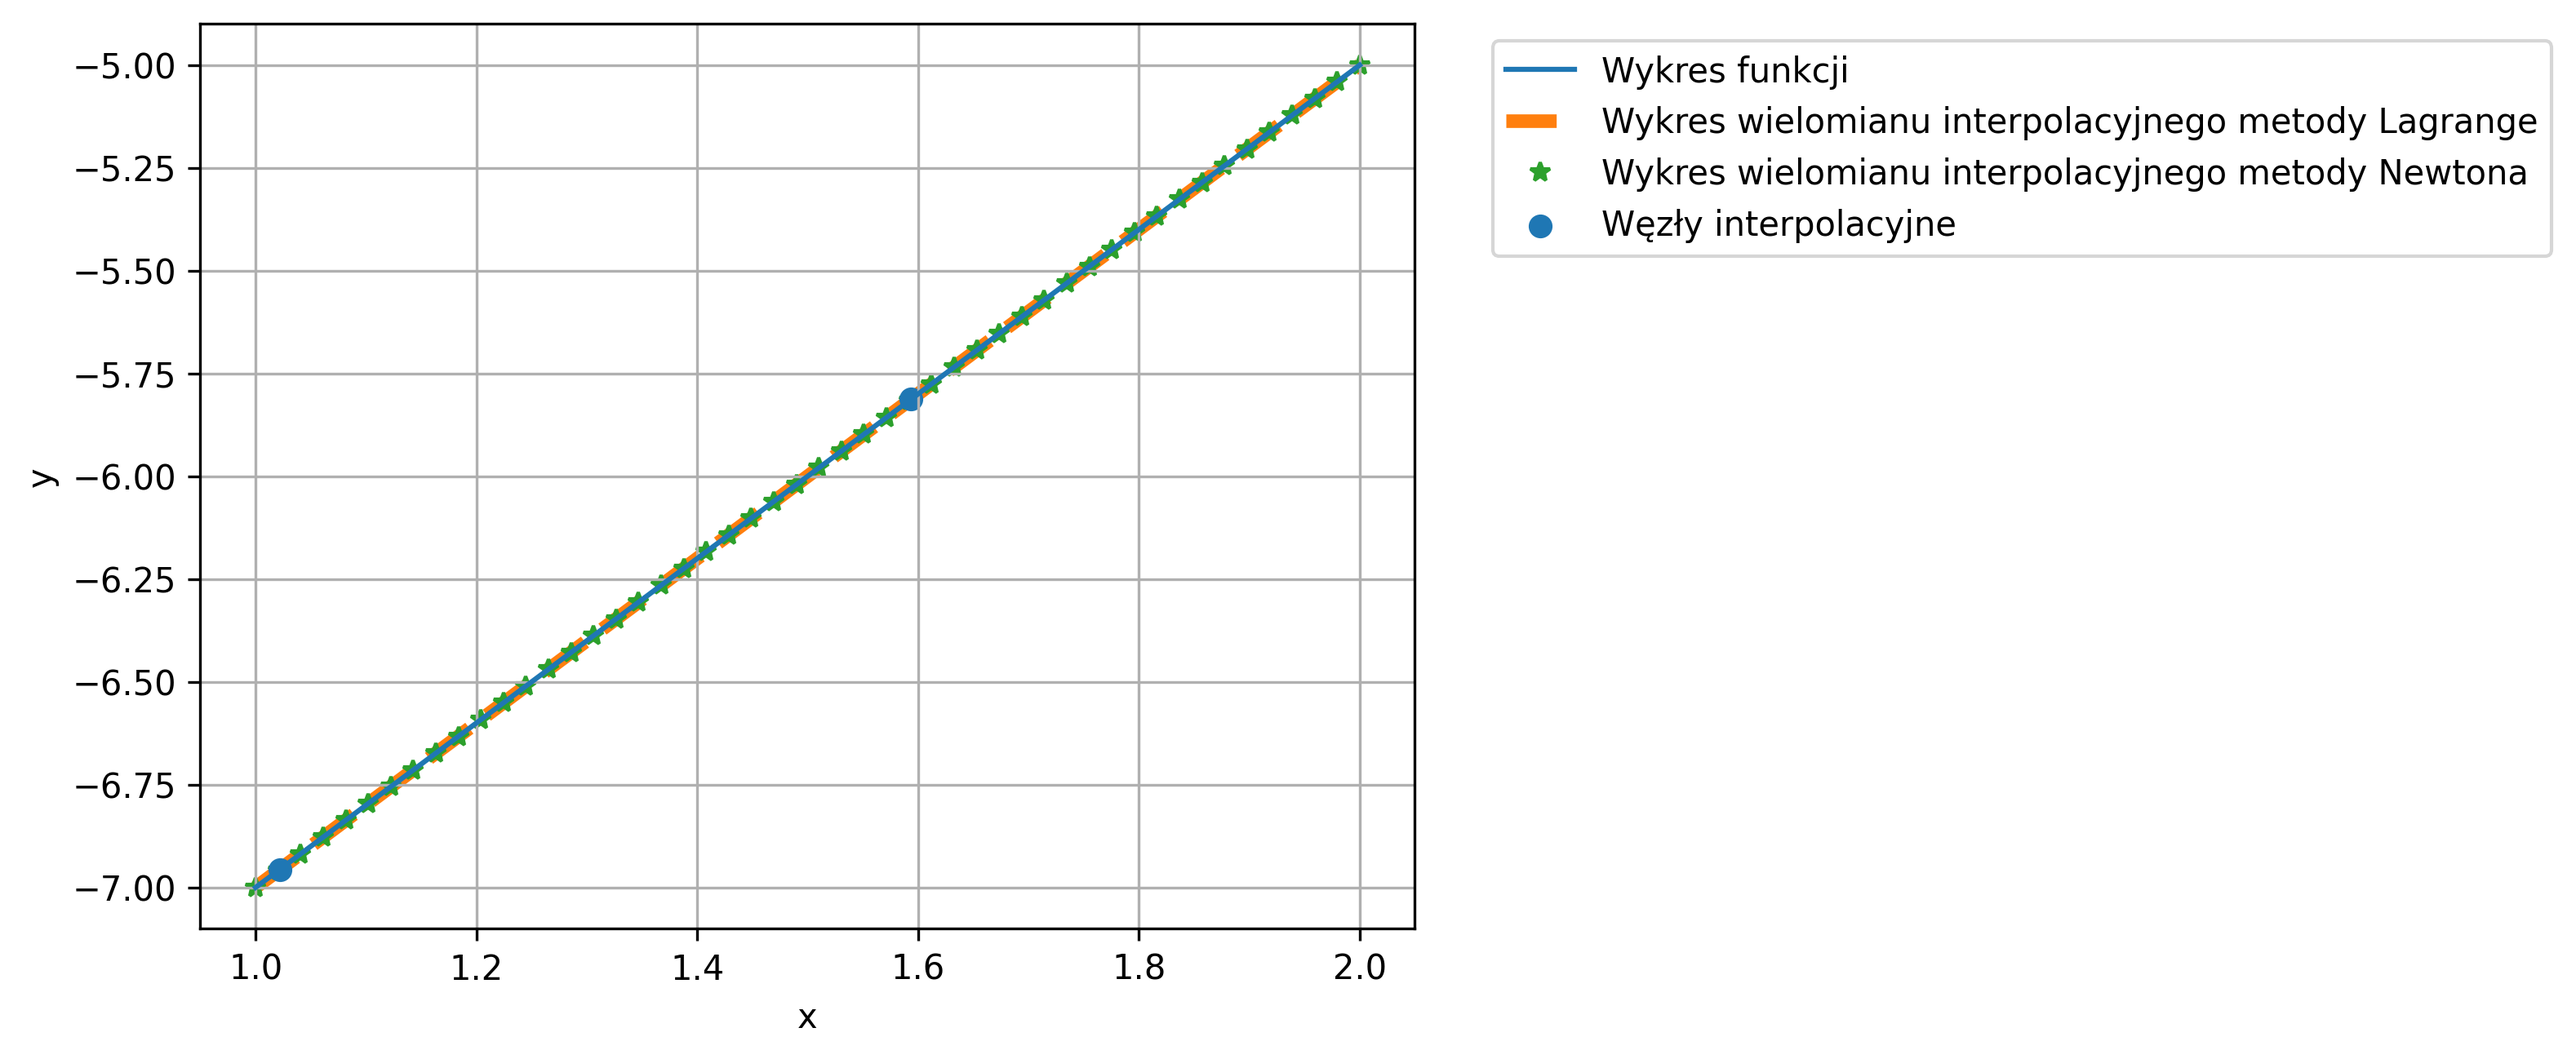
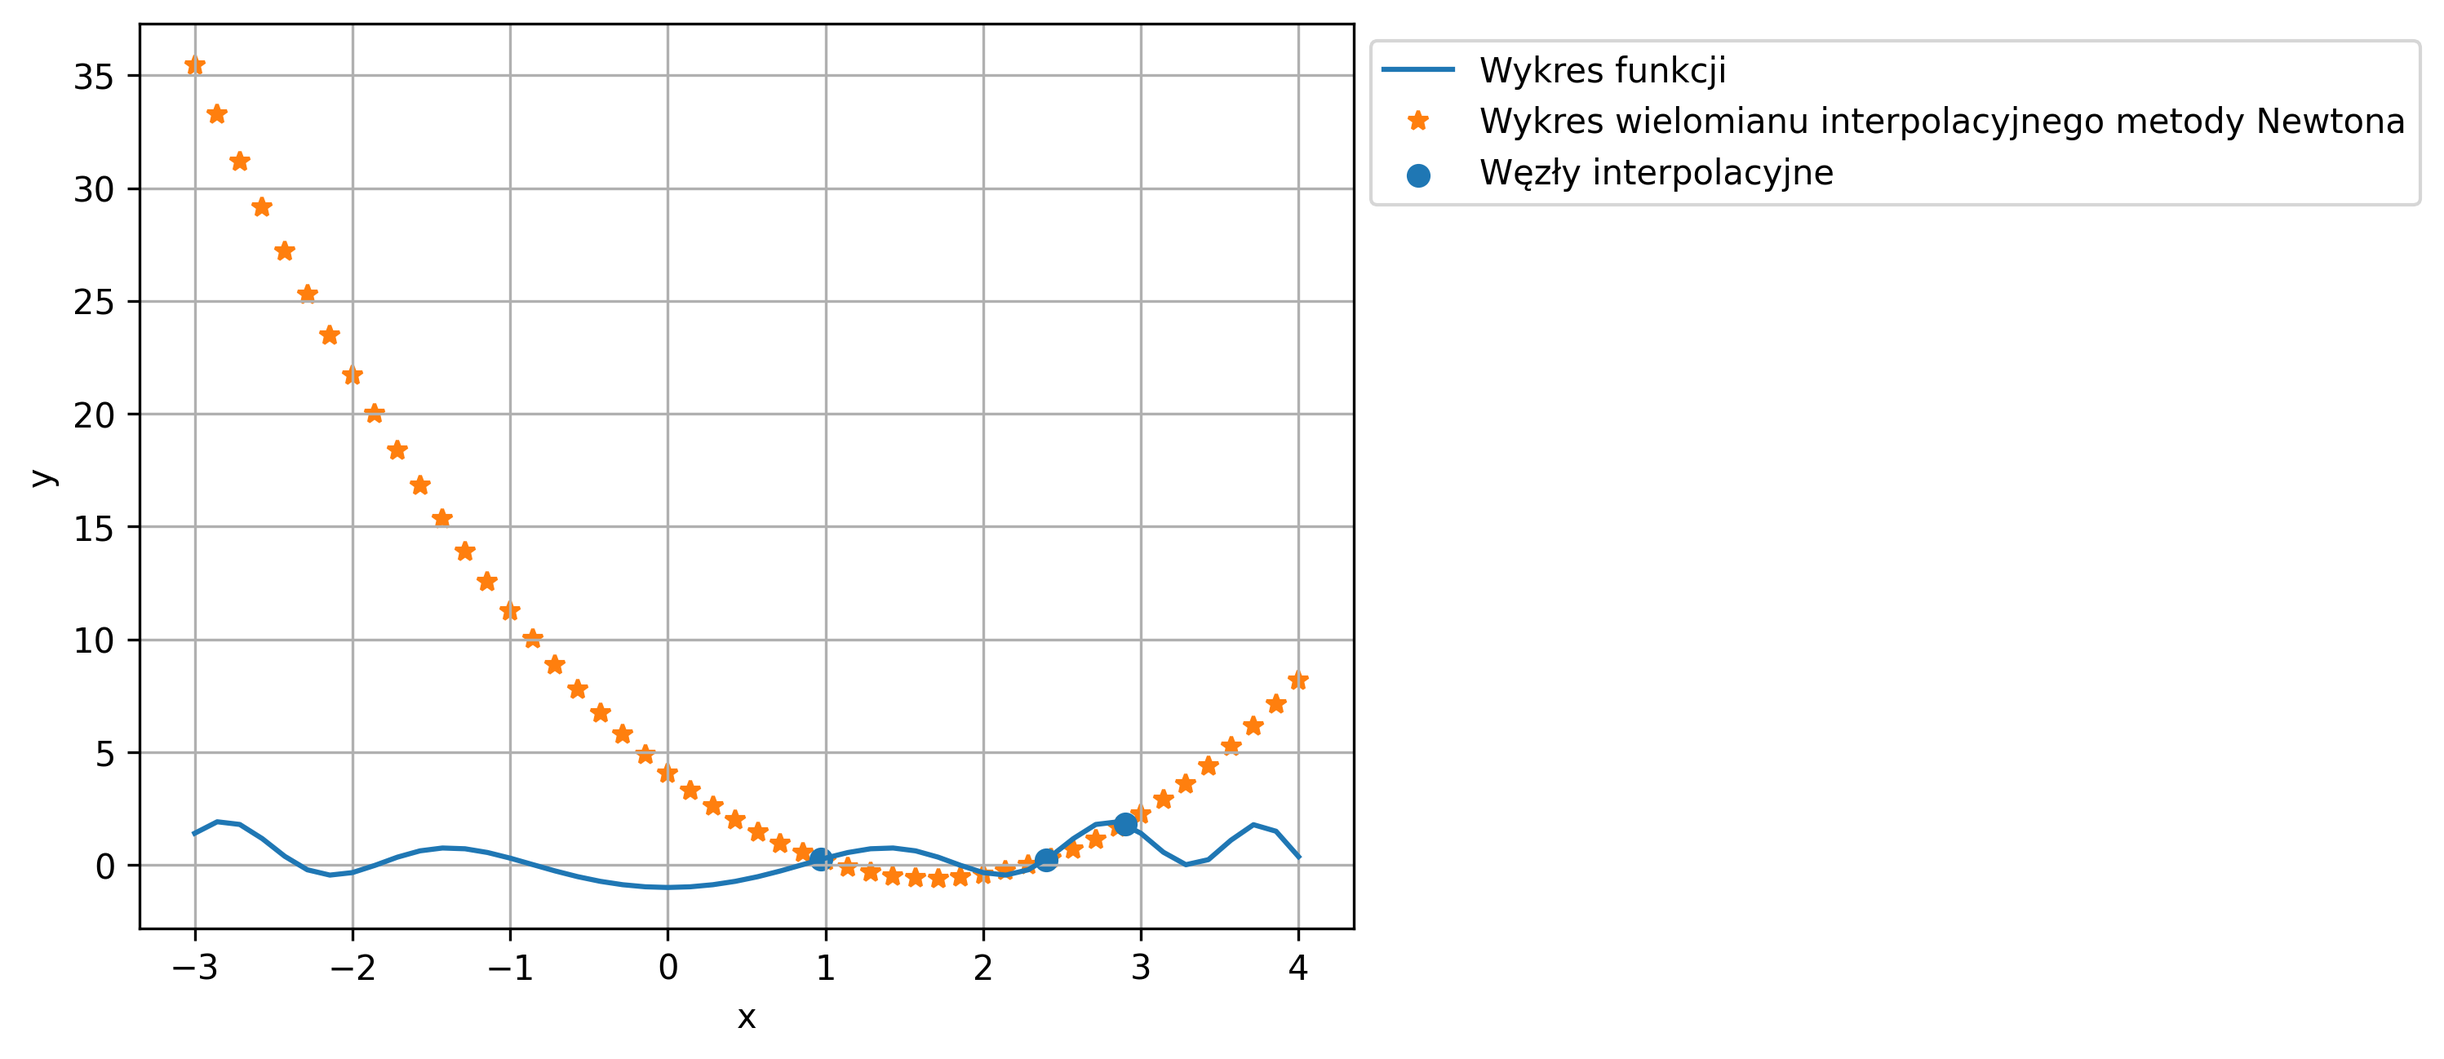
zad3 1.0
Wersja odświeżona, odnowiona, działająca release 1.0

diff --git a/Zad3/in_output.py b/Zad3/in_output.py
@@ -1,13 +1,12 @@
 from matplotlib import pyplot as plt
 import numpy as np
 import calculations
-import sys
 
 
 def get_fun():
     in_number = ''
     while in_number not in list(map(str, range(1, 5))):
-        in_number = input('Prosze wybrac wzor funkcji \n '
+        in_number = input('Prosze wybrac wzor funkcji \n'
                           '1. 2 * x - 9 \n'
                           '2. 3 * x ** 3 - 5 \n'
                           '3. np.sin(x ** 2) - np.cos(x)  \n'
@@ -17,34 +16,15 @@ def get_fun():
 
 
 def get_range():
-    print('Prosze podac poczatek przedzialu')
+    print('Poczatek przedzialu:')
     a = input()
-    print('Prosze podac koniec przedzialu')
+    print('Koniec przedzialu')
     b = input()
     return float(a), float(b)
 
 
 def get_nodes_number():
-    return int(input('Prosze podac liczbe wezlow \n'))
-
-
-def get_unknowns(unknowns_number, formula_range):
-    unknowns = []
-    for i in range(unknowns_number):
-        users_in = input('Prosze podac wartosc wspolrzednej x punktu do obliczenia wartosci'
-                         ' jego wspolrzednej y za pomoca obu metod interpolacji ')
-        while not (users_in.isdigit()) and not (formula_range[1] >= float(users_in) >= formula_range[0]):
-            print('Prosze podac prawidlowa wartosc')
-            users_in = input()
-        unknowns.append(float(users_in))
-    return np.array(unknowns)
-
-
-def get_unknowns_number():
-    number = ''
-    while not number.isdigit():
-        number = input('Prosze podac liczbe poszukiwanych niewiadomych wartosci wielomianu dla danych x \n')
-    return int(number)
+    return int(input('Liczba wezlow: \n'))
 
 
 def menu():
@@ -57,7 +37,7 @@ def menu():
     else:
         nodes = get_nodes_file(formula_range)
         if not nodes:
-            print('Dane w pliku sa nieprawidlowe, zostana wylosowane')
+            print('Nieprawidlowe dane w pliku. Trwa losowanie')
             nodes_number = get_nodes_number()
             nodes = get_nodes_user(nodes_number, formula_range)
     checked_formula = formula_switcher(formula)
@@ -74,16 +54,11 @@ def formula_switcher(in_number):
     return switcher.get(in_number, 'invalid input')
 
 
-def unknowns_menu(formula_range):
-    unknowns_number = get_unknowns_number()
-    return get_unknowns(unknowns_number, formula_range)
-
-
 def nodes_choice():
     choice = ''
     while choice != '1' and choice != '2':
-        choice = input("Prosze wybrac: \n 1. Polozenia wezlow maja zostac wylosowane \n "
-                       "2. Poloznia wezlow maja zostac wczytane z pliku 'nodes.txt' \n")
+        choice = input("Wezly: \n 1. Losowanie polozenie wezlow \n "
+                       "2. Wczytaj polozenie wezlow z pliku nodes.txt \n")
     return choice
 
 
@@ -112,7 +87,7 @@ def get_function_graph(formula_range, formula):
     plt.plot(x, np.array(y), label='Wykres funkcji')
 
 
-def get_all_graphs(formula_range, formula, nodes, nodes_values, lagrange, newton):
+def get_all_graphs(formula_range, formula, nodes, nodes_values, newton):
     get_function_graph(formula_range, formula)
     plt.plot(newton[0], newton[1], '*', zorder=0, linewidth=4,
              label='Wykres wielomianu interpolacyjnego metody Newtona')
@@ -120,26 +95,10 @@ def get_all_graphs(formula_range, formula, nodes, nodes_values, lagrange, newton
     plt.xlabel('x')
     plt.ylabel('y')
     plt.grid()
-    plt.legend(bbox_to_anchor=(1.05, 1.0), loc='upper left')
+    plt.legend(bbox_to_anchor=(1.0, 1.0), loc='upper left')
     plt.savefig('wykres.png',
                 dpi=300,
                 format='png',
                 bbox_inches='tight')
     plt.show()
 
-
-def data_output(unknowns, nodes, formula, nodes_values):
-    print('Punkty podane przez użytkownika do obliczenoia dwoma metodami \n', unknowns)
-    newton = []
-    true_values = []
-    for x in unknowns:
-        newton.append(calculations.newton_interpolation(x, nodes, nodes_values))
-        true_values.append(calculations.get_fun_value(formula, x))
-    true_values = np.array(true_values)
-    newton = np.array(newton)
-    newton_errors = calculations.get_residuals(true_values, newton)
-    newton_sq_error = calculations.get_mse(newton_errors)
-    print('Prawidlowe wartosci dla danych niewiadomych \n', true_values)
-    print('Wyniki metody Newtona \n', newton)
-    print('Bledy metody Newtona \n', newton_errors)
-    print('Sredni blad kwadratowy metody Newtona \n', newton_sq_error)

diff --git a/Zad3/calculations.py b/Zad3/calculations.py
@@ -40,20 +40,6 @@ def get_nodes_values(nodes, function):
     return np.array(nodes_values)
 
 
-def lagrange_interpolation(x, nodes, nodes_values):  # x - położenie węzła, którego wartość chcemy obliczyć
-
-    y = 0
-    for i in range(len(nodes)):
-
-        value = 1
-        for j in range(len(nodes)):
-
-            if i != j:
-                value = value * ((x - nodes[j]) / (nodes[i] - nodes[j]))
-        y += value * nodes_values[i]
-    return y
-
-
 def divided_diff(nodes, nodes_values):  # ilorazy różnicowe
     coef = np.zeros([len(nodes_values), len(nodes_values)])
     coef[:, 0] = np.array(nodes_values)
@@ -72,7 +58,7 @@ def newton_interpolation(x, nodes, nodes_values):
     return p
 
 
-def get_all_results(formula_range, nodes_values, nodes, method):  # method- lagrange_interpolation lub newton_interpolation
+def get_all_results(formula_range, nodes_values, nodes, method): 
     x = np.linspace(formula_range[0], formula_range[1])
     y = []
     for elem in x:

diff --git a/Zad3/main.py b/Zad3/main.py
@@ -1,12 +1,11 @@
 import in_output
 import calculations
-data = in_output.menu()
-nodes = data[2]
+
+
+*data, nodes = in_output.menu()
+
 nodes_values = calculations.get_nodes_values(nodes, data[1])
-lagrange = calculations.get_all_results(data[0], nodes_values, nodes, calculations.lagrange_interpolation)
+
 newton = calculations.get_all_results(data[0], nodes_values, nodes, calculations.newton_interpolation)
-in_output.get_all_graphs(data[0], data[1], nodes, nodes_values, lagrange, newton)
-unknowns = in_output.unknowns_menu(data[0])
-in_output.data_output(unknowns, nodes, data[1], nodes_values)
-lagrange = calculations.lagrange_interpolation(5, nodes, nodes_values)
-newton2 = calculations.newton_interpolation(5, nodes, nodes_values)
+
+in_output.get_all_graphs(data[0], data[1], nodes, nodes_values, newton)
